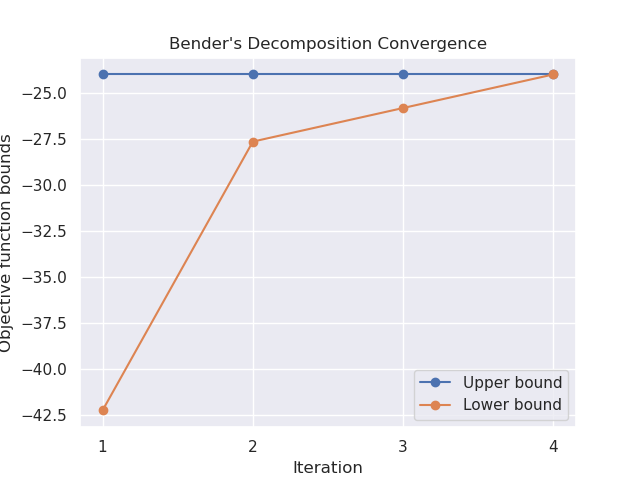
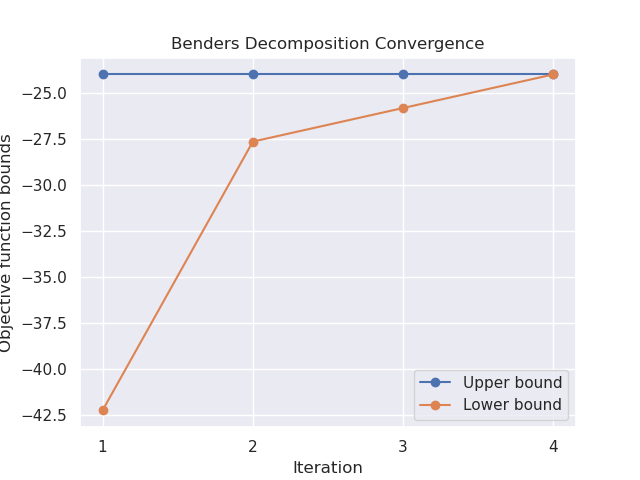
style: Fix typo

Changed region(s): [[0.25, 0.0625, 0.75, 0.125]]

diff --git a/main.py b/main.py
@@ -6,7 +6,7 @@ import seaborn as sns
 
 class Benders:
     """
-    Solves MILPs of the following form using Bender's decomposition:
+    Solves MILPs of the following form using Benders decomposition:
 
     min c_T*x + f_T*y     over x,y
     s.t   A*x + B*y >= b (m constraints)
@@ -41,7 +41,7 @@ class Benders:
         self.upper_bounds = []
 
     def solve_problem(self):
-        """Solves the MILP using Bender's decomposition."""
+        """Solves the MILP using Benders decomposition."""
         i = 0
         y_sol = self.y_init
         while self.UB - self.LB >= self.eps and i <= self.max_iterations:
@@ -177,7 +177,7 @@ class Benders:
 
         sns.set_theme()
         fig, ax = plt.subplots()
-        ax.set_title("Bender's Decomposition Convergence")
+        ax.set_title("Benders Decomposition Convergence")
         ax.set_xlabel('Iteration')
         ax.set_ylabel('Objective function bounds')
         iters = np.arange(1, len(self.upper_bounds)+1, 1, dtype=int)
